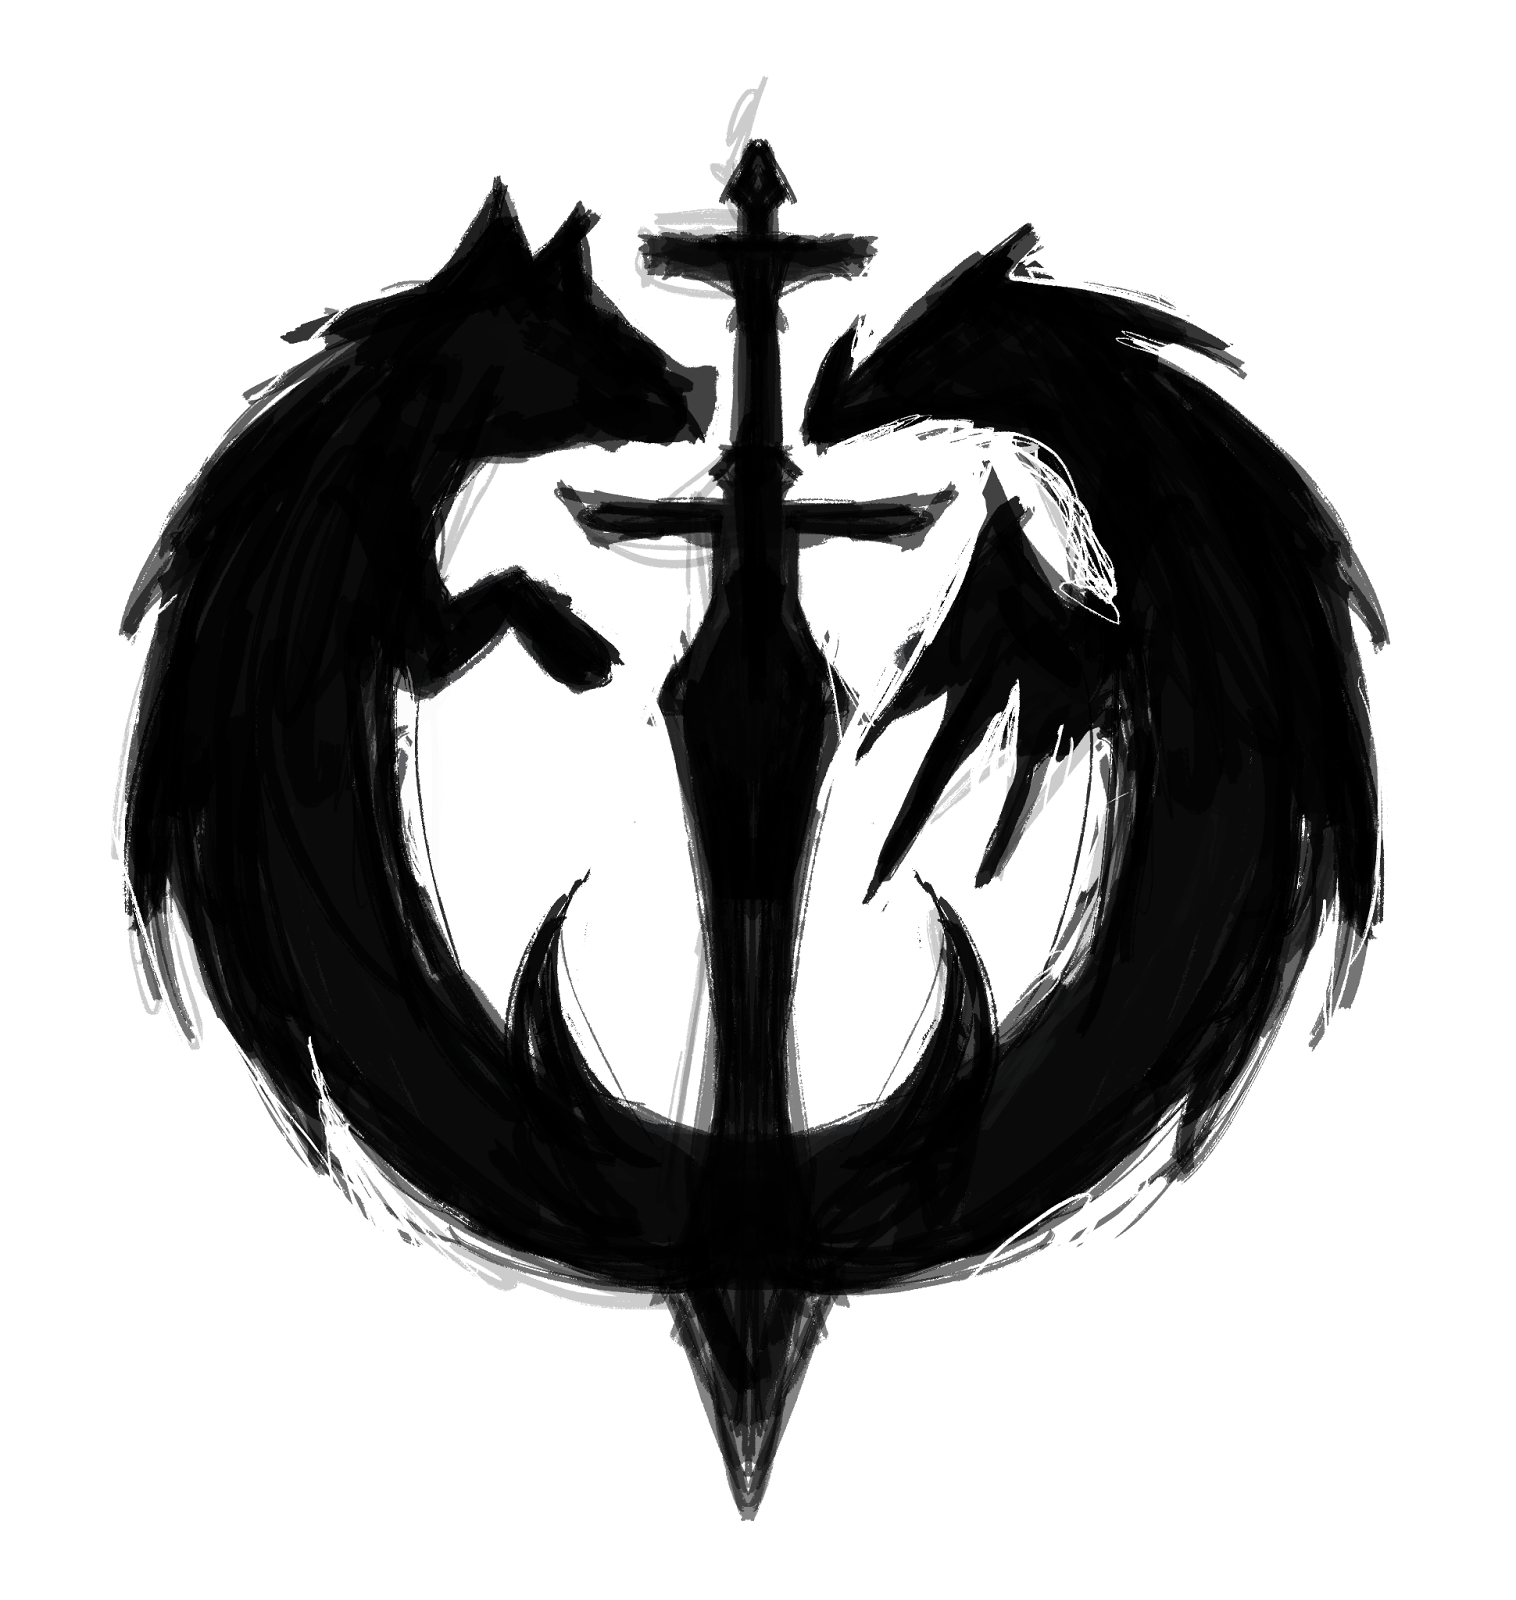
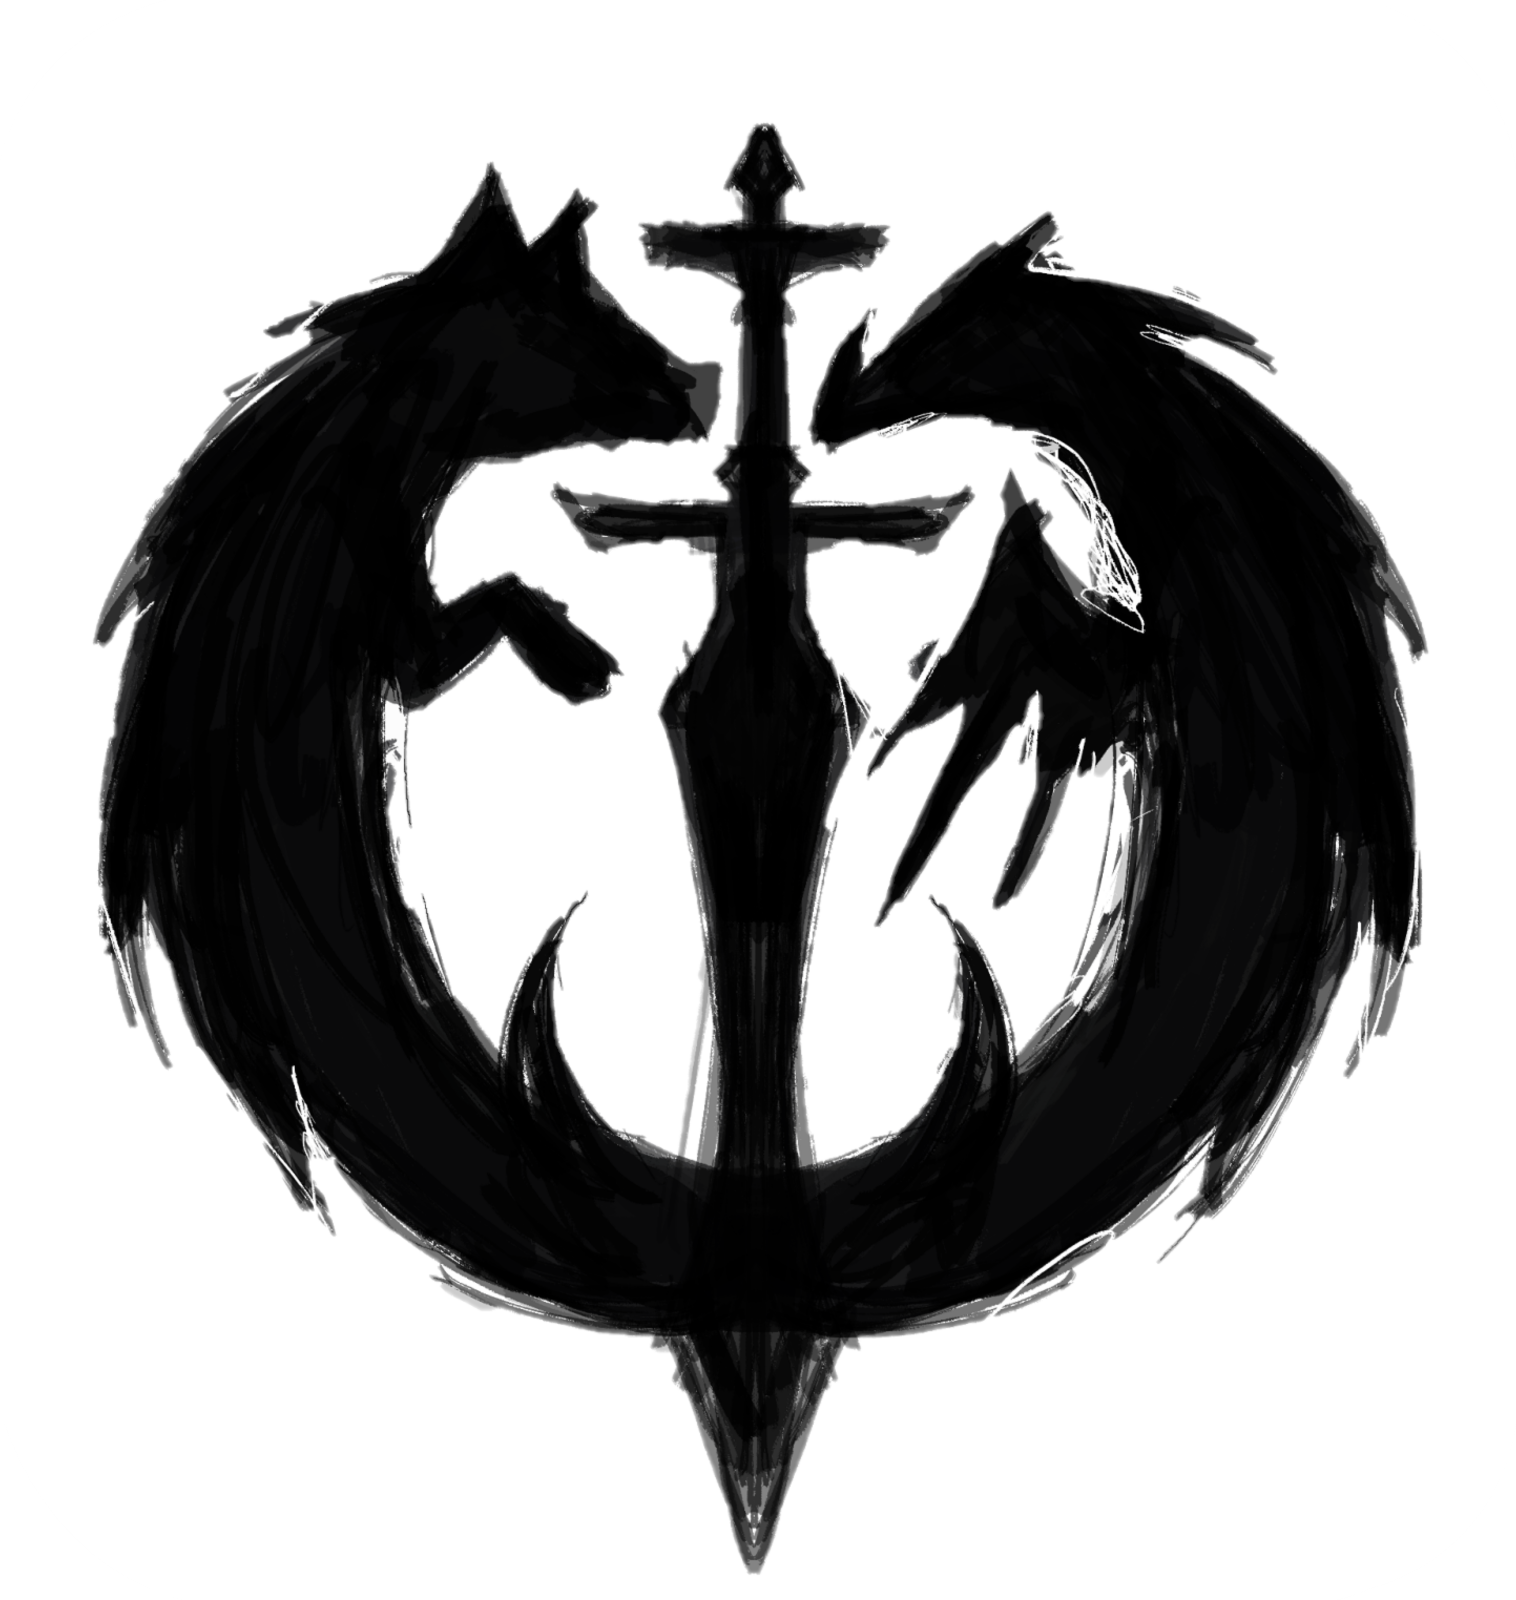
Quartz sync: Aug 29, 2025, 10:30 AM

Changed region(s): [[0.062, 0.0625, 0.9611, 1.0]]

diff --git a/quartz/components/PageTitle.tsx b/quartz/components/PageTitle.tsx
@@ -1,14 +1,18 @@
 import { pathToRoot } from "../util/path"
 import { QuartzComponent, QuartzComponentConstructor, QuartzComponentProps } from "./types"
 import { classNames } from "../util/lang"
+import { joinSegments } from "../util/path"
 import { i18n } from "../i18n"
 
 const PageTitle: QuartzComponent = ({ fileData, cfg, displayClass }: QuartzComponentProps) => {
   const title = cfg?.pageTitle ?? i18n(cfg.locale).propertyDefaults.title
   const baseDir = pathToRoot(fileData.slug!)
+  const iconPath = joinSegments(baseDir, "static/Logo.png")
   return (
     <h2 class={classNames(displayClass, "page-title")}>
-      <a href={baseDir}>{title}</a>
+      <a href={joinSegments(baseDir, "Antir")}>
+        <img class="Logo" src={iconPath} alt={title}/>
+      </a>
     </h2>
   )
 }
@@ -18,6 +22,14 @@ PageTitle.css = `
   font-size: 1.75rem;
   margin: 0;
   font-family: var(--titleFont);
+}
+.Logo {
+  max-height: 195px;
+  min-height: 50px;
+  max-width: 212px;
+  min-width: 50px;
+  margin: auto;
+  display: block;
 }
 `
 

diff --git a/quartz.config.ts b/quartz.config.ts
@@ -89,7 +89,7 @@ const config: QuartzConfig = {
       Plugin.Favicon(),
       Plugin.NotFoundPage(),
       // Comment out CustomOgImages to speed up build time
-      Plugin.CustomOgImages(),
+      // Plugin.CustomOgImages(),
     ],
   },
 }

diff --git a/quartz.layout.ts b/quartz.layout.ts
@@ -35,7 +35,6 @@ export const defaultContentPageLayout: PageLayout = {
           grow: true,
         },
         { Component: Component.Darkmode() },
-        { Component: Component.ReaderMode() },
       ],
     }),
     Component.Explorer(),

diff --git a/content/Antir.md b/content/Antir.md
@@ -1,5 +1,7 @@
-#location
-
+---
+tags:
+  - location
+---
 %%
 ```leaflet
 id: Antir
@@ -21,9 +23,23 @@ marker: Region,-3.441436767578125,2.55908203125,Archipelago,,,
 
 ```
 %%
+![[Antir Map.jpg|right|600]]
 Antir is a large continent that is home to several nations and many peoples. The climate is largely temperate, except for the desert in the southern reaches of the continent.
 
-It is bordered to the north by the [[Great Forest]], to the south by [[Taluvhas]], and to the east by the land of the giants.
+It is bordered to the north by the [[Great Forest]], to the south by [[Taluvhas]], and to the east by the land of the [[giants]].
+
+# Locations
+The continent is divided into five main regions:
+
+[[Holy Kingdom|The Holy Kingdom of Antir]] in the northwest, a theocratic monarchy ruled by [[The Golden Saint]] of the goddess [[Lumina]].
+
+[[Strioc an Athraithe]] in the north, a chaotic collection of small nations plagued by uncontrollable fae magic.
+
+[[Zauberei]] in the northeast, a magical city-state that houses the nation's premier college.
+
+[[Blackwing]] in the south, controlled by the might of the [[Blackwing Legion]] and the priests of [[Verita]].
+
+[[Riverlands|The Riverlands]] in the east, an untamed land of monsters and shifting rivers.
 
 # History
 In the ancient past Antir was home to the [[Drakos Empire]] before its complete collapse and the extinction of its people. After this, the dead empire's demi-gods - the [[Dragon|Dragons]] - took over rule of the continent for centuries, if not millennia. During this time, the only mortal residents were servants of the dragons and the beastfolk settlements along the outskirts.

diff --git a/content/Outlands/Giants.md b/content/Outlands/Giants.md
@@ -1,0 +1,10 @@
+---
+tags:
+  - creature
+---
+
+Giants are a reclusive people who live beyond [[Antir]]'s eastern borders. They look similar in build to humans, but range from 12 to 50 feet tall.
+
+Giants require an incredible amount of food to survive, so their families are small and they do not often congregate. There is only a single giant city, and it has very few permanent residents - most giants there are visitors, and leave once their task in the city is complete.
+
+It is said that, due to the vast resources required to raise a giant to adulthood, the killing of another giant is the greatest taboo in their culture.

diff --git a/content/Taluvhas/Taluvhas.md b/content/Taluvhas/Taluvhas.md
@@ -13,9 +13,9 @@ Bug people
 
 Anadi rebels?
 
-![[IMG_5160.jpeg]]
+![[ceremonial fungal mask.jpeg|300]]
 
-
+%%
 
 
 

diff --git a/content/index.md b/content/index.md
@@ -1,13 +1,11 @@
 ---
 title: Antiran Compendium
 ---
-
 Welcome to the Antiran Compendium, the source for all knowledge about the continent of Antir, its history, and the world it occupies.
 
 Antir is a fantasy world created by me with help from my friends, so I could have a setting of my own for TTRPG games (particularly Pathfinder 2e).
 
-A good place to start is the [[Antir]] page, which will let you explore the continent.
-
 If you are searching for content about a specific campaign, search for its tag (such as #shattered-past).
 
 Enjoy!
+![[Antir|clean]]

diff --git a/content/Campaigns/Shattered Past/People/Tooth and Claw.md b/content/Campaigns/Shattered Past/People/Tooth and Claw.md
@@ -5,4 +5,4 @@ The group consisted of royal bodyguard [[West Hemlocke]], prize fighter [[Valeri
 
 The group successfully prevented the rise of [[Kyrillos]] the lich, killed the rogue [[General Tanner]], and defeated the green dragon [[Dilitrius]] when he attacked Alturon.
 
-The group was disbanded immediately following Dilitrius' defeat, when Ninyva attempted to kill King Cianan using powers from [[The Autumn King]]. The other three members then helped the king defeat and capture her. Afterwards Valerie and Darios became adventurers, continuing to search for a way to undo Nini's fae corruption. Hemlocke became Cianan's royal consort, and eventually retired with the king to [[Foxfire Academy]] in [[Zauberei]].
+The group was disbanded immediately following Dilitrius' defeat, when Ninyva attempted to kill King Cianan using powers from [[The Autumn King|The Lord of Gilded Leaves]]. The other three members then helped the king defeat and capture her. Afterwards, Valerie and Darios became adventurers, continuing to search for a way to undo Nini's fae corruption. Hemlocke eventually married Cianan, and the two later retired to become headmasters at [[Foxfire Academy]] in [[Zauberei]].

diff --git a/content/Miscellanious/Development.md b/content/Miscellanious/Development.md
@@ -125,7 +125,7 @@ As chronicled by Hisuth Nightingale, Uso Tohko O’Hare, Spruce Leek, and Quilp 
 >[!caption|right]
 >
 >![[guild-sketch.png]]
->Artistic recreation of the original concept for Dragún Mac Tíre’s emblem, recognized as the first adventurer’s guild  (c. 1168)*
+>Artistic recreation of the original concept for Dragún Mac Tíre’s emblem, recognized as the first adventurer’s guild  (c. 1168)
 
 ## Foreword  
 Historians regard Cianan of Antir, the Wizard King, as the ruler whose brief yet tumultuous reign (c. 953 – 960 BR) marked a turning point that beckoned magical dangers upon the world. Prior to his rule, catastrophic otherworldly events were all but unheard of – or, if they had occurred, none lived to tell the tale.